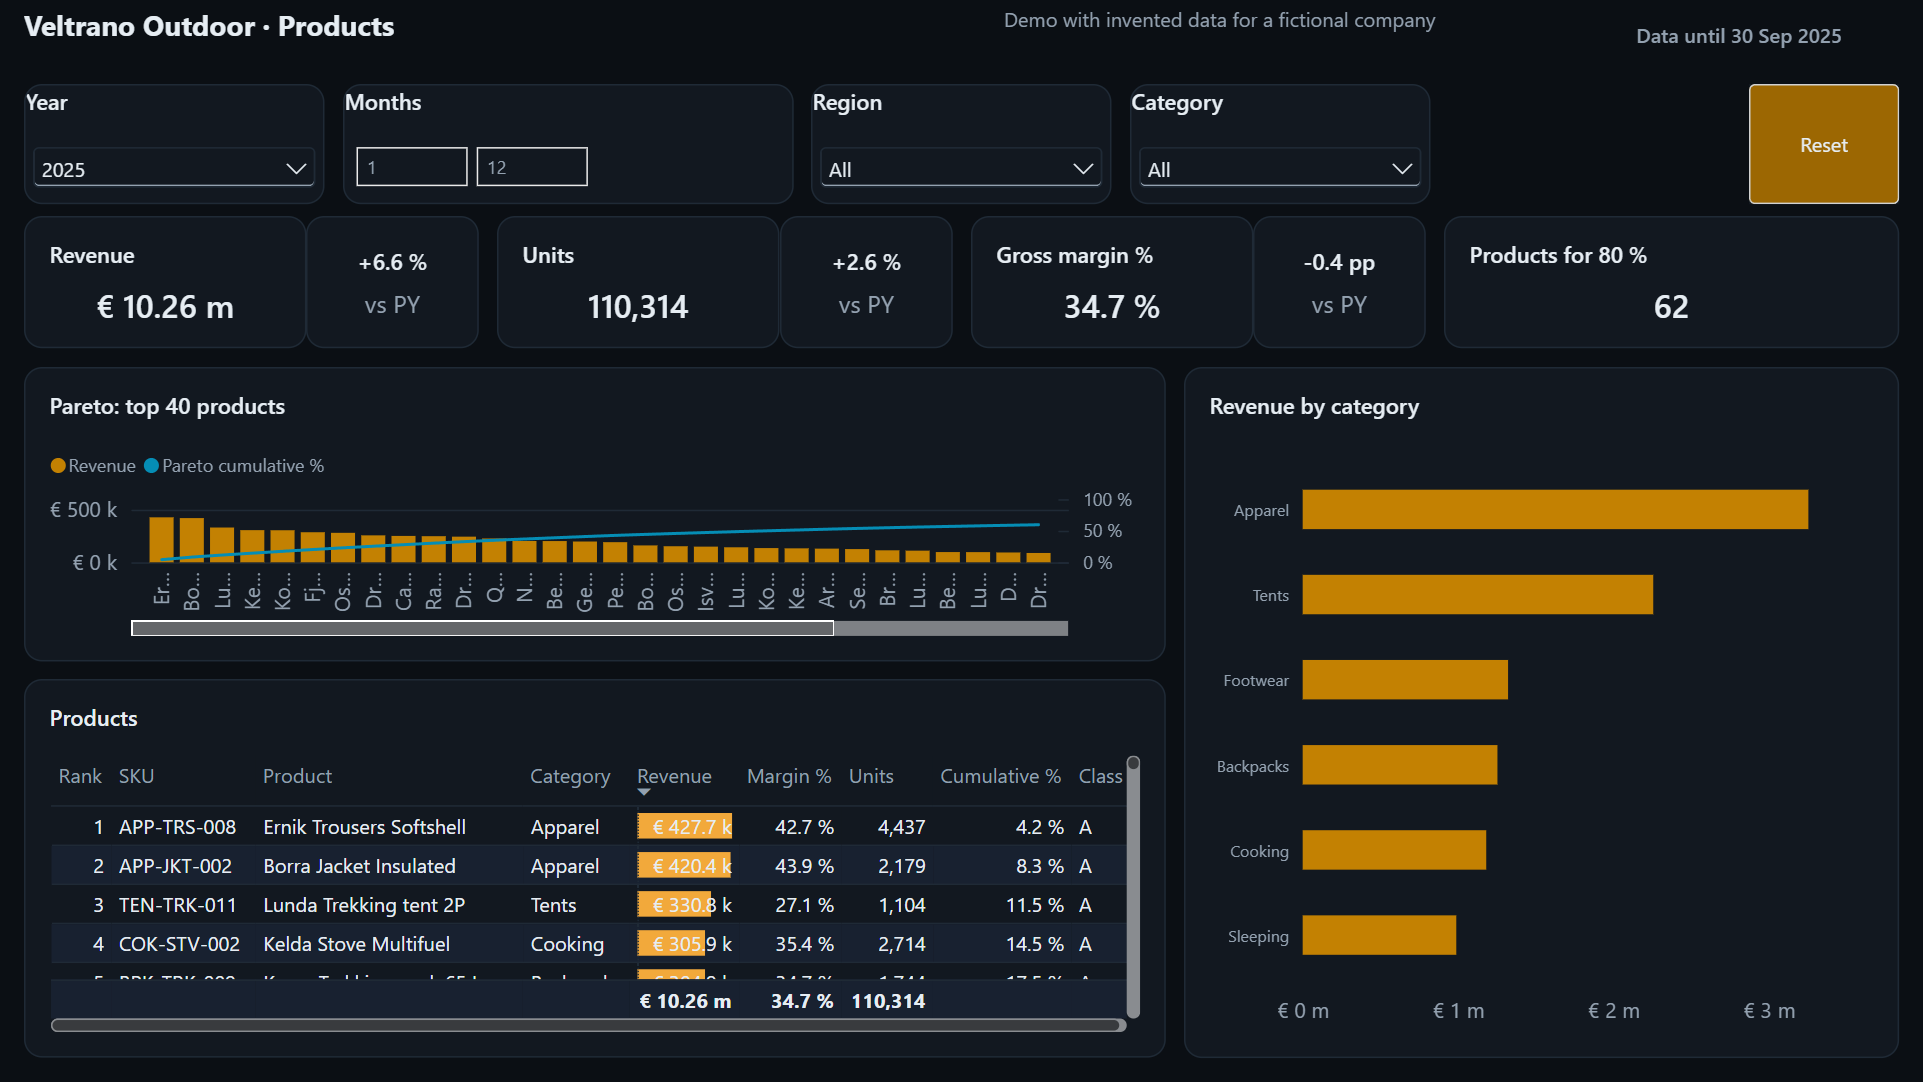
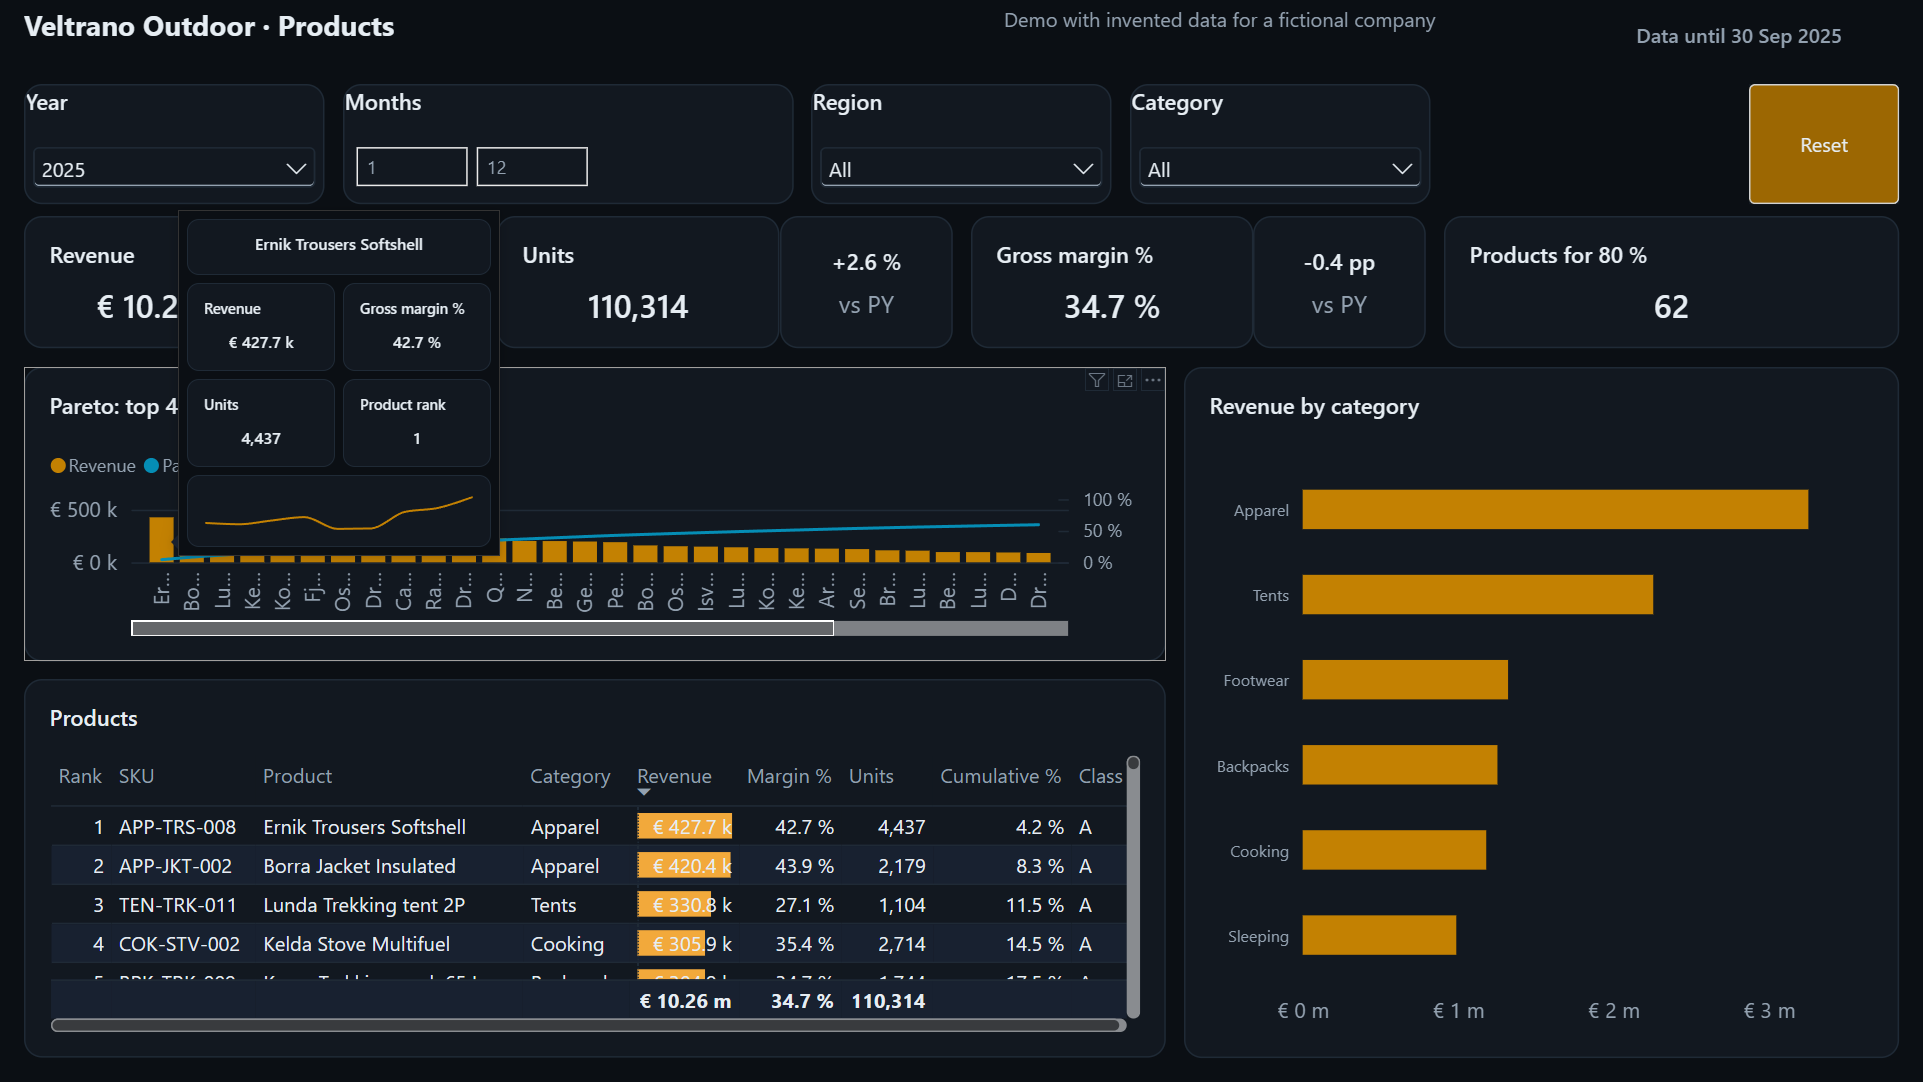
fix(pbi): the product tooltip shows the tooltip page, Reset restores Year 2025
Both found while checking the sibling report in Power BI Desktop on 2026-11-02:

- the tooltip type 'ReportPage' only showed the default tooltip; it is 'Canvas'
- the Reset bookmarks held no Year selection, so Year stayed where it was
- the tooltip page's cards hid their values at 52 px; the page is 320 x 344 now

The saved files were edited by hand and checked in Desktop: a pointer on a Pareto
bar shows the page with the product's values, and Reset returns 2024 to 2025.

diff --git a/tests/pbi/test_pbir_lint.py b/tests/pbi/test_pbir_lint.py
@@ -176,7 +176,7 @@ def reset_problems(report):
 def tooltip_problems(report):
     out = []
     tip = page(report, "Product tooltip")
-    if (tip.page_type, tip.visibility, tip.width, tip.height) != ("Tooltip", "HiddenInViewMode", 320, 240):
+    if (tip.page_type, tip.visibility, tip.width, tip.height) != ("Tooltip", "HiddenInViewMode", 320, 344):
         out.append("the tooltip page is not a hidden 320 x 240 tooltip page")
     if (tip.raw.get("pageBinding") or {}).get("type") != "Tooltip":
         out.append("the tooltip page has no tooltip binding")
@@ -184,7 +184,7 @@ def tooltip_problems(report):
         v = next(v for v in page(report, "Products").visuals if v.title == title)
         props = v.raw["visual"]["visualContainerObjects"].get("visualTooltip", [{}])[0].get("properties", {})
         if (
-            lit(props.get("type", {"expr": {"Literal": {"Value": ""}}})) != "'ReportPage'"
+            lit(props.get("type", {"expr": {"Literal": {"Value": ""}}})) != "'Canvas'"
             or lit(props["section"]).strip("'") != tip.name
         ):
             out.append(f"{title}: no report-page tooltip {tip.name!r}")

diff --git a/tools/pbi/build_report.py b/tools/pbi/build_report.py
@@ -523,7 +523,8 @@ def _bookmark_json(page: dict, spec: dict, visuals: list[dict]) -> dict:
         slicer = spec["slicers"][name]
         vname = stable_name(pid, "slicer", name)
         if slicer.get("default"):
-            objects = {"merge": {"general": [{"properties": slicer_selection(*slicer["field"], slicer["default"])}]}}
+            selection = slicer_selection(*slicer["field"], slicer["default"])
+            objects = {"merge": {"general": [{"properties": {"filter": selection}}]}}
         else:
             objects = {"remove": [{"object": "general", "property": "filter"}]}
         states[vname] = {"singleVisual": {"visualType": "slicer", "objects": objects}}

diff --git a/tools/pbi/pbir.py b/tools/pbi/pbir.py
@@ -346,7 +346,7 @@ class Visual:
                     objects[key] = items
         if tooltip_page:
             container_objects["visualTooltip"] = [{"properties": {
-                "show": _literal("true"), "type": _literal("'ReportPage'"), "section": _text(tooltip_page)}}]
+                "show": _literal("true"), "type": _literal("'Canvas'"), "section": _text(tooltip_page)}}]
         if sync_group:
             v["visual"]["syncGroup"] = {"groupName": sync_group, "fieldChanges": True, "filterChanges": True}
         if selection:

diff --git a/README.de.md b/README.de.md
@@ -31,7 +31,7 @@ Die Nachbildung ist eine statische Seite mit den sechs Berichtsseiten als Reiter
 
 ## Was es kann
 
-Acht Berichtsseiten (sieben auf einer Fläche von 1280 × 720, die Tooltip-Seite auf 320 × 240) im Design Veltrano Dark: eine Kopfzeile mit dem Datenstand, eine Slicer-Zeile (Year, Months, Region, Category, Reset), die über die Seiten synchronisiert ist, eine Reihe Kennzahlkacheln mit der Veränderung zum Vorjahr und darunter die Diagramme.
+Acht Berichtsseiten (sieben auf einer Fläche von 1280 × 720, die Tooltip-Seite auf 320 × 344) im Design Veltrano Dark: eine Kopfzeile mit dem Datenstand, eine Slicer-Zeile (Year, Months, Region, Category, Reset), die über die Seiten synchronisiert ist, eine Reihe Kennzahlkacheln mit der Veränderung zum Vorjahr und darunter die Diagramme.
 
 - **Overview**: Umsatz, Bruttomarge in %, Aufträge, durchschnittlicher Auftragswert und Rabatt in %; der Monatsverlauf gegenüber dem Vorjahr; Umsatz und Marge je Monat; Umsatz nach einer wählbaren Dimension (Analyse by: Kategorie, Region, Segment oder Kanal).
 - **Trends**: seit Jahresbeginn, Vorjahr bis zum selben Monat, rollierende 12 Monate und Stückzahlen; Stückzahlen nach Kategorie; eine Matrix mit allen sieben Zeitberechnungen je Monat.
@@ -47,7 +47,7 @@ Acht Berichtsseiten (sieben auf einer Fläche von 1280 × 720, die Tooltip-Seite
 
 | Products | Regions |
 |---|---|
-| ![Seite Products mit dem Pareto-Diagramm der 40 umsatzstärksten Produkte, der Produkttabelle und dem Umsatz nach Kategorie](docs/screenshots/03-products.png) | ![Seite Regions mit dem Umsatz nach Region gegen das Vorjahr, der Ländermatrix und Rabatt gegen Marge](docs/screenshots/04-regions.png) |
+| ![Seite Products mit dem Pareto-Diagramm der 40 umsatzstärksten Produkte und geöffnetem Produkt-Tooltip, der Produkttabelle und dem Umsatz nach Kategorie](docs/screenshots/03-products.png) | ![Seite Regions mit dem Umsatz nach Region gegen das Vorjahr, der Ländermatrix und Rabatt gegen Marge](docs/screenshots/04-regions.png) |
 
 | Customers | Targets |
 |---|---|

diff --git a/README.md b/README.md
@@ -31,7 +31,7 @@ The replica is a static page with the six report pages as tabs (Overview, Trends
 
 ## What it does
 
-Eight report pages (seven on a 1280 × 720 canvas, the product tooltip on 320 × 240) with the theme Veltrano Dark: a header with the data date, a slicer row (Year, Months, Region, Category, Reset) synced across the pages, a row of KPI tiles with the change against the previous year, and the charts below.
+Eight report pages (seven on a 1280 × 720 canvas, the product tooltip on 320 × 344) with the theme Veltrano Dark: a header with the data date, a slicer row (Year, Months, Region, Category, Reset) synced across the pages, a row of KPI tiles with the change against the previous year, and the charts below.
 
 - **Overview**: revenue, gross margin %, orders, average order value and discount %; the monthly trend against the previous year; revenue and margin by month; revenue by a dimension you choose (Analyse by: category, region, segment or channel).
 - **Trends**: year to date, previous year to date, rolling 12 months and units; units by category; a matrix with all seven time calculations by month.
@@ -47,7 +47,7 @@ Eight report pages (seven on a 1280 × 720 canvas, the product tooltip on 320 ×
 
 | Products | Regions |
 |---|---|
-| ![Products page with the Pareto chart of the top 40 products, the product table and revenue by category](docs/screenshots/03-products.png) | ![Regions page with revenue by region against the previous year, the country matrix and discount against margin](docs/screenshots/04-regions.png) |
+| ![Products page with the Pareto chart of the top 40 products and the product tooltip open, the product table and revenue by category](docs/screenshots/03-products.png) | ![Regions page with revenue by region against the previous year, the country matrix and discount against margin](docs/screenshots/04-regions.png) |
 
 | Customers | Targets |
 |---|---|

diff --git a/docs/screenshots/SHOTLIST.md b/docs/screenshots/SHOTLIST.md
@@ -6,7 +6,7 @@ The images the READMEs show. Images 01 to 08 come from the Power BI Desktop sess
 |---|---|
 | `01-overview.png` | Overview: five KPI tiles, current vs previous year, revenue and gross margin %, Analyse by Category |
 | `02-trends.png` | Trends: YTD, PYTD, R12 and Units, the time-intelligence matrix |
-| `03-products.png` | Products: the Pareto chart of the top 40 products, the product table with rank and class, revenue by category |
+| `03-products.png` | Products: the Pareto chart of the top 40 products with the product tooltip open, the product table with rank and class, revenue by category |
 | `04-regions.png` | Regions: current vs PY by region, monthly revenue by region, the country matrix, discount vs margin |
 | `05-customers.png` | Customers: revenue by segment and by sales rep, the customer table |
 | `06-targets.png` | Targets: revenue vs target, attainment by region, the region × month attainment matrix |
